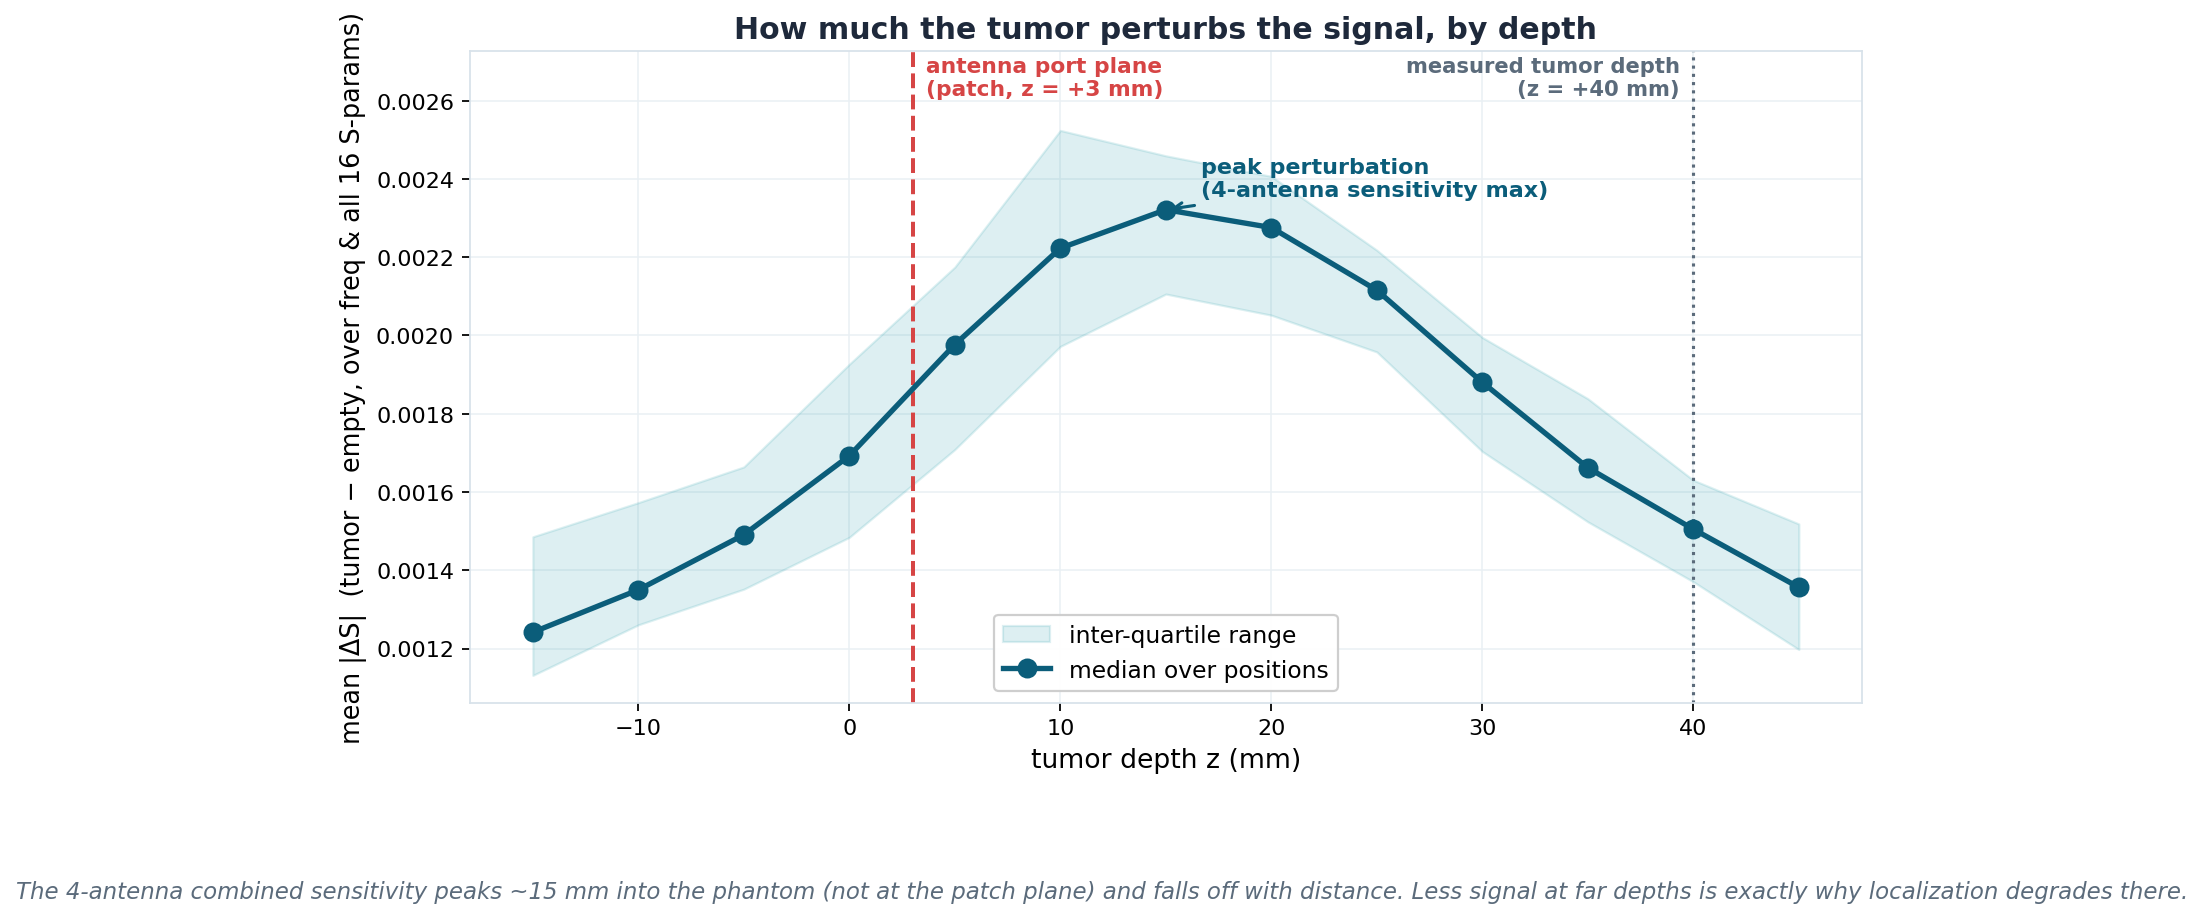
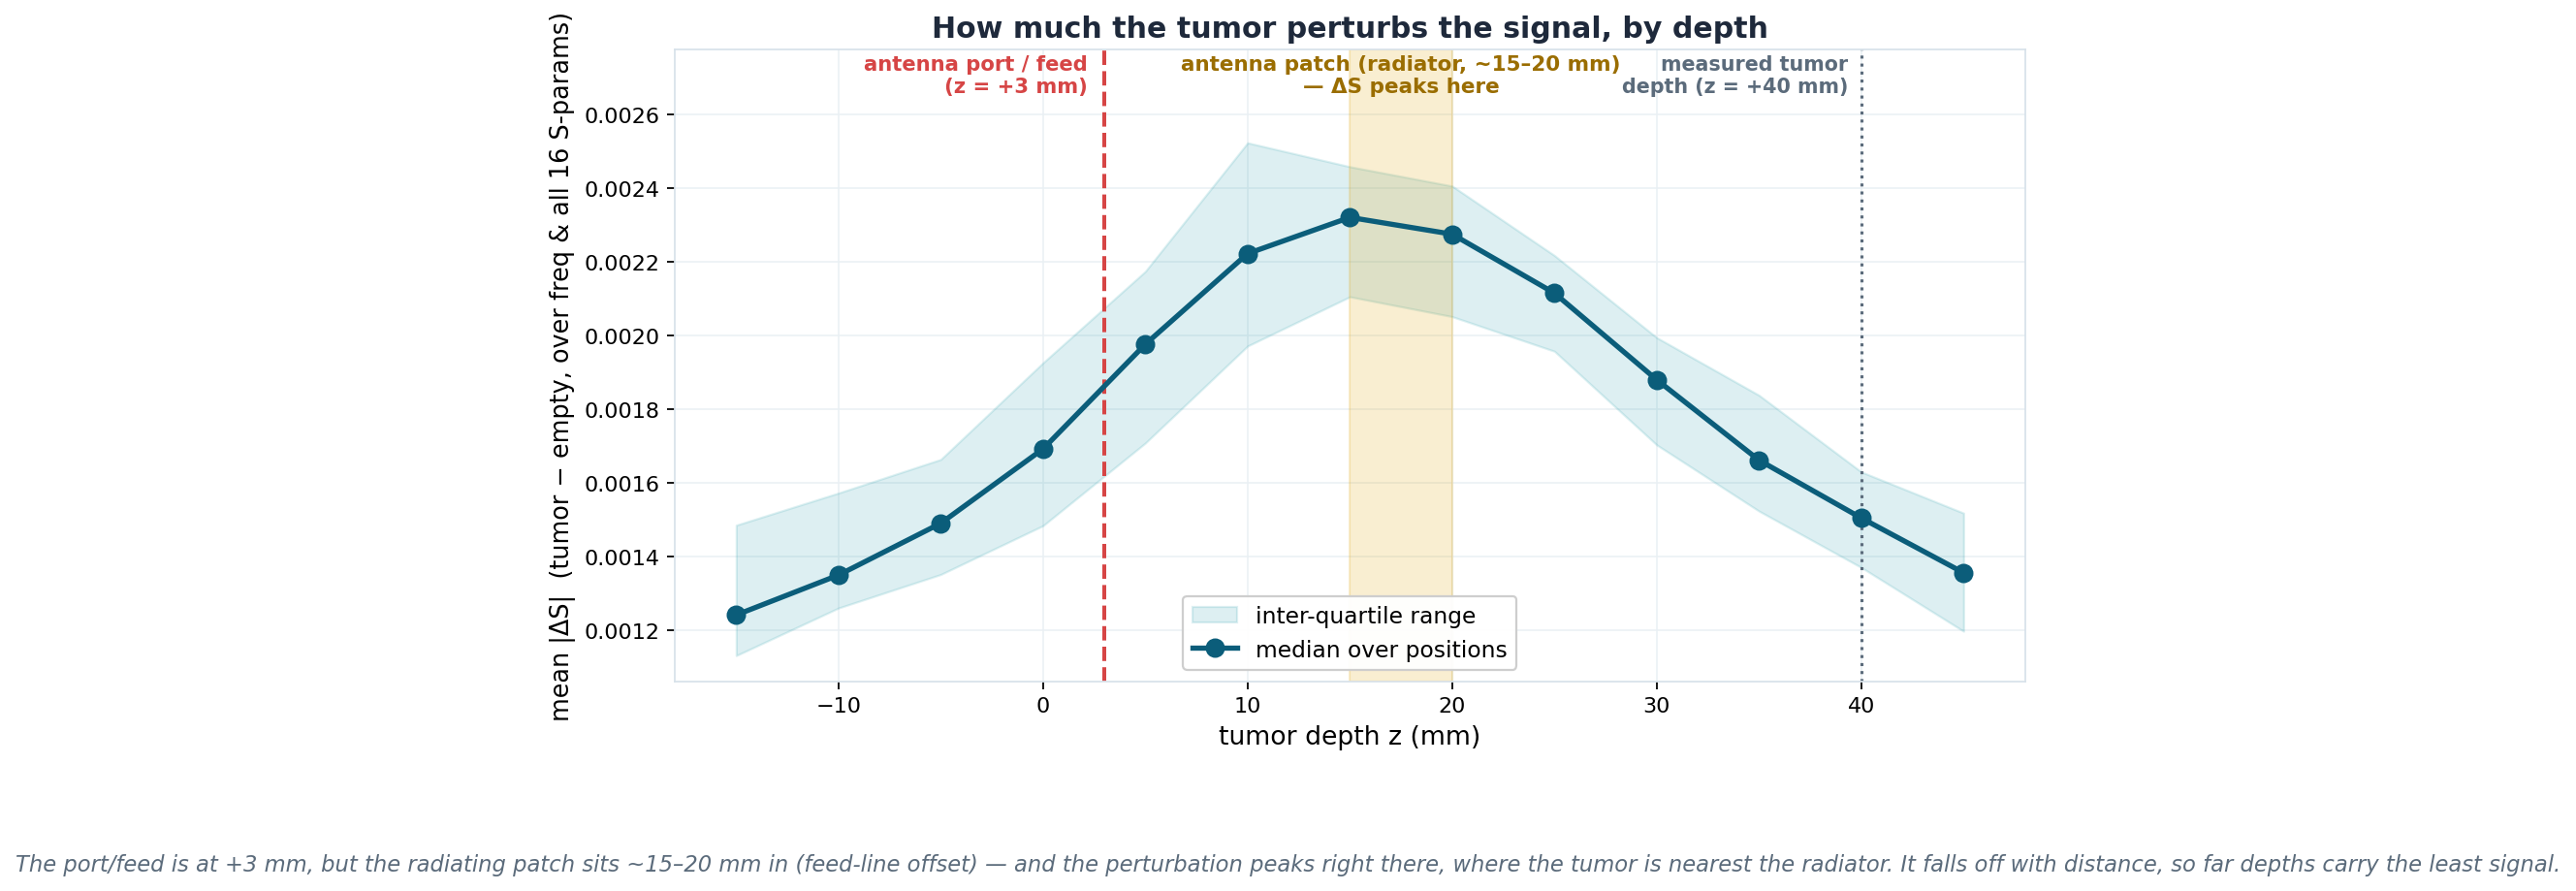
Distinguish antenna port/feed (+3mm) from radiating patch (~15-20mm)
Per feed-line geometry: the port/feed is at z=+3mm but the radiating patch sits
~15-20mm in, which is exactly where |dS| peaks (tumor nearest the radiator).
sim_dS_vs_depth.png marks port/feed, patch-radiator band, and measured depth
(+40mm). Deck2 text updated to match; deck rebuilt. CHANGELOG corrected.

diff --git a/regression_deck/deck2_simulated.js b/regression_deck/deck2_simulated.js
@@ -48,15 +48,15 @@ setup.forEach((st,i)=>{const y=1.75+i*1.28; card(s,0.6,y,W-1.2,1.12);
 
 // ============ 3. DEPTH STRUCTURE + dS-vs-depth
 s=pres.addSlide(); s.background={color:LIGHT};
-title(s,"Depth planes and the signal they carry","13 tumor heights — the perturbation peaks mid-phantom and fades with distance");
+title(s,"Depth planes and the signal they carry","13 tumor heights — the perturbation peaks at the radiating patch and fades with distance");
 s.addImage({path:"sim_dS_vs_depth.png",x:0.55,y:1.75,w:8.0,h:4.85});
 card(s,8.8,1.75,3.95,4.85);
 s.addText("The physical driver",{x:9.05,y:1.95,w:3.5,h:0.4,fontFace:HEAD,fontSize:16,bold:true,color:BLUE,margin:0});
 bullets(s,9.05,2.5,3.55,4.0,[
   "ΔS = tumor − empty, averaged over frequency and all 16 S-parameters.",
-  "Antenna patch/port plane sits at z = +3 mm; the measured tumor sat at z = +40 mm.",
-  "Combined 4-antenna sensitivity peaks ~15 mm into the phantom — not at the patch.",
-  "Falls off smoothly both ways; far depths carry the least signal → localization degrades there.",
+  "Port/feed is at z = +3 mm, but the radiating patch sits ~15–20 mm in (feed-line offset).",
+  "ΔS peaks right at the patch (~15–20 mm) — where the tumor is nearest the radiator.",
+  "Falls off both ways; far depths carry the least signal → localization degrades there. (Measured tumor sat at z = +40 mm.)",
 ],12);
 
 // ============ 4. ALGORITHM

diff --git a/regression_deck/fig_dS_vs_depth.py b/regression_deck/fig_dS_vs_depth.py
@@ -75,22 +75,22 @@ print("per-depth mean|dS| median:", dict(zip(zs.tolist(), np.round(med,4).tolist
 fig, ax = plt.subplots(figsize=(9.8, 5.4))
 ax.fill_between(zs, q1, q3, color=TEAL, alpha=0.15, label="inter-quartile range")
 ax.plot(zs, med, "-o", color=BLUE, lw=2.4, ms=8, zorder=3, label="median over positions")
-ymax = max(q3)*1.08
-# antenna patch / port plane (from the HFSS geometry) at z = +3 mm
+ymax = max(q3)*1.10
+# antenna PORT / feed point at z = +3 mm
 ax.axvline(3, color=CORAL, lw=1.8, ls="--", zorder=2)
-ax.annotate("antenna port plane\n(patch, z = +3 mm)", (3, ymax),
-            textcoords="offset points", xytext=(6, -2), ha="left", va="top",
-            fontsize=9.8, color=CORAL, fontweight="bold")
+ax.annotate("antenna port / feed\n(z = +3 mm)", (3, ymax),
+            textcoords="offset points", xytext=(-8, -2), ha="right", va="top",
+            fontsize=9.5, color=CORAL, fontweight="bold")
+# radiating PATCH element sits ~15-20 mm in (feed-line offset) — where ΔS peaks
+ax.axvspan(15, 20, color=AMBER, alpha=0.18, zorder=1)
+ax.annotate("antenna patch (radiator, ~15–20 mm)\n— ΔS peaks here", (17.5, ymax),
+            textcoords="offset points", xytext=(0, -2), ha="center", va="top",
+            fontsize=9.7, color="#9A6D00", fontweight="bold")
 # measured-tumor depth reference (sim↔real match) at z = +40 mm
 ax.axvline(40, color=MUTE, lw=1.4, ls=":", zorder=2)
-ax.annotate("measured tumor depth\n(z = +40 mm)", (40, ymax),
+ax.annotate("measured tumor\ndepth (z = +40 mm)", (40, ymax),
             textcoords="offset points", xytext=(-6, -2), ha="right", va="top",
-            fontsize=9.5, color=MUTE, fontweight="bold")
-imax=int(np.argmax(med))
-ax.annotate("peak perturbation\n(4-antenna sensitivity max)",
-            (zs[imax], med[imax]), textcoords="offset points", xytext=(16, 6),
-            fontsize=10, color=BLUE, fontweight="bold",
-            arrowprops=dict(arrowstyle="->", color=BLUE, lw=1.4))
+            fontsize=9.3, color=MUTE, fontweight="bold")
 ax.set_ylim(top=ymax)
 ax.set_xlabel("tumor depth z (mm)", fontsize=12)
 ax.set_ylabel("mean |ΔS|  (tumor − empty, over freq & all 16 S-params)", fontsize=11.5)
@@ -100,9 +100,9 @@ ax.grid(True, color="#EAF0F4", lw=0.7); ax.set_axisbelow(True)
 for s in ax.spines.values(): s.set_color("#D8E2EA")
 ax.legend(fontsize=10.5, framealpha=0.95, loc="lower center")
 fig.text(0.5, -0.03,
-    "The 4-antenna combined sensitivity peaks ~15 mm into the phantom (not at the patch plane) and falls off with distance. "
-    "Less signal at far depths is exactly why localization degrades there.",
-    ha="center", va="top", fontsize=10.3, color=MUTE, style="italic")
+    "The port/feed is at +3 mm, but the radiating patch sits ~15–20 mm in (feed-line offset) — and the perturbation peaks right there, "
+    "where the tumor is nearest the radiator. It falls off with distance, so far depths carry the least signal.",
+    ha="center", va="top", fontsize=10.2, color=MUTE, style="italic")
 fig.tight_layout(rect=[0,0.06,1,1])
 p=os.path.join(OUT,"sim_dS_vs_depth.png")
 fig.savefig(p, dpi=160, bbox_inches="tight"); print("wrote", p)

diff --git a/docs/CHANGELOG.md b/docs/CHANGELOG.md
@@ -21,12 +21,13 @@ entry here.
   (uniform 10 mm sim vs 6×6 physical cells, 51 measured), `raw_sparam_sim_vs_meas.png`
   (antenna domain gap), `sim_meas_correlation.png` (linear sim→measured transfer
   R²=0.65 on held-out freqs; MLP overfits, R²<0).
-- **Figure fixes.** `sim_dS_vs_depth.png` now marks the antenna patch/port plane
-  (z = +3 mm) and the measured-tumor depth (z = +40 mm), from the HFSS geometry
-  (`run_tumor_sweep_pyaedt.py`); corrected the peak label — the |ΔS| max at
-  ~15 mm is the 4-antenna combined-sensitivity maximum, NOT "tumor nearest the
-  antennas" (the patch is at +3 mm). All raw S-parameter plots now display in dB
-  (`sim_meas_correlation.png` S11 panel converted; `raw_sparam_*` already dB).
+- **Figure fixes.** `sim_dS_vs_depth.png` now distinguishes the antenna **port /
+  feed** (z = +3 mm) from the **radiating patch** (~15–20 mm in, due to the
+  feed-line offset), plus the measured-tumor depth (z = +40 mm). The |ΔS| peak at
+  ~15 mm coincides with the patch radiator — the tumor is nearest the *radiating
+  element* there, not the feed. (Earlier drafts wrongly put the antenna at +3 mm
+  and called the peak a pure array effect.) All raw S-parameter plots now display
+  in dB (`sim_meas_correlation.png` S11 panel converted; `raw_sparam_*` already dB).
 
 ## 2026-07-14
 